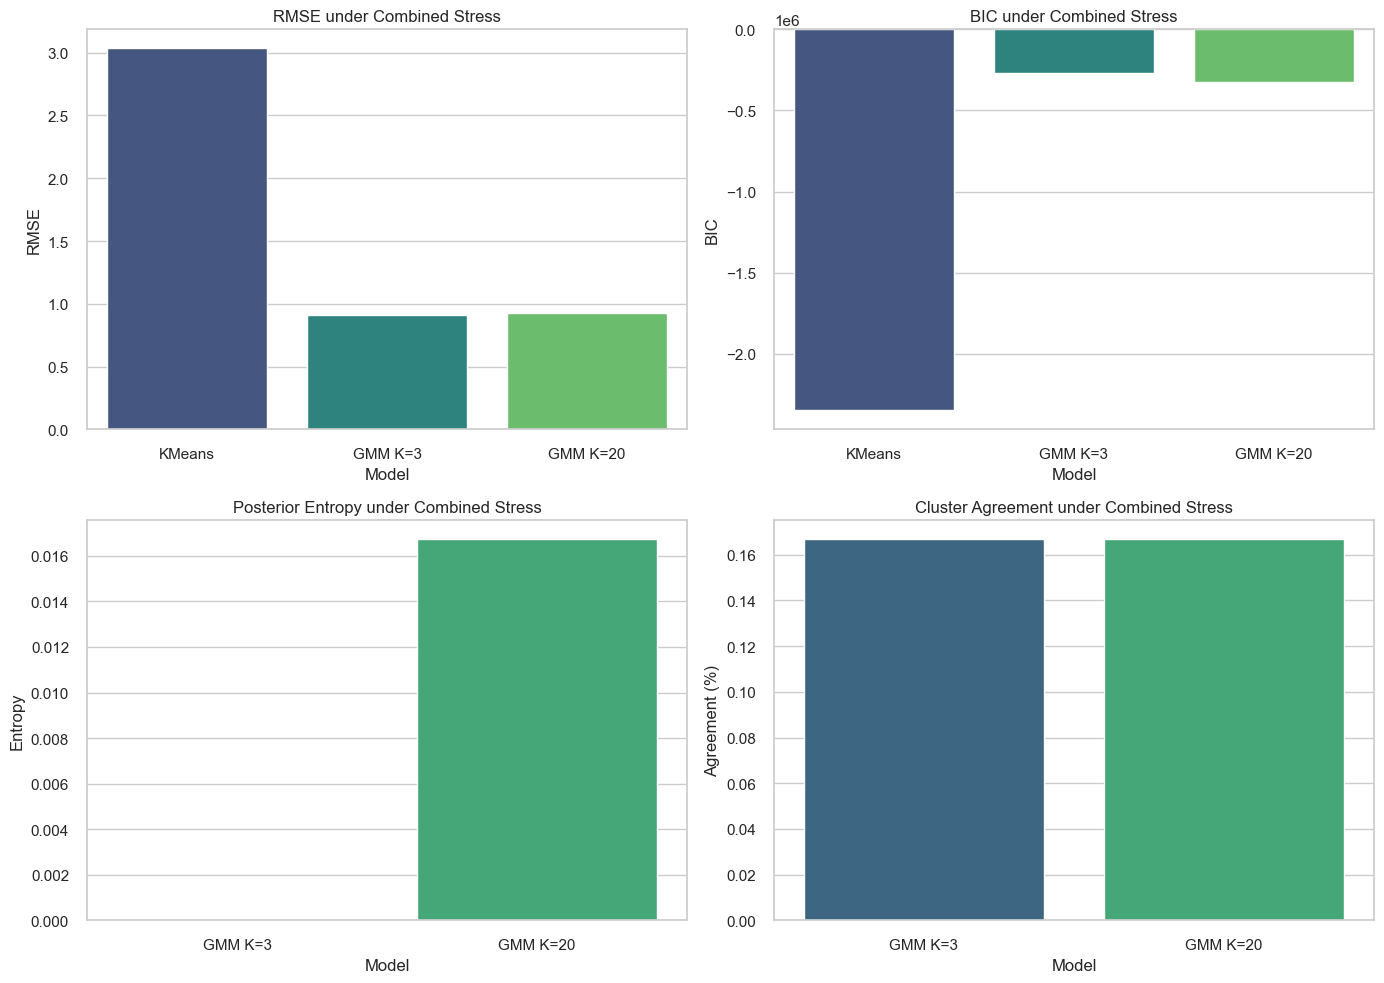
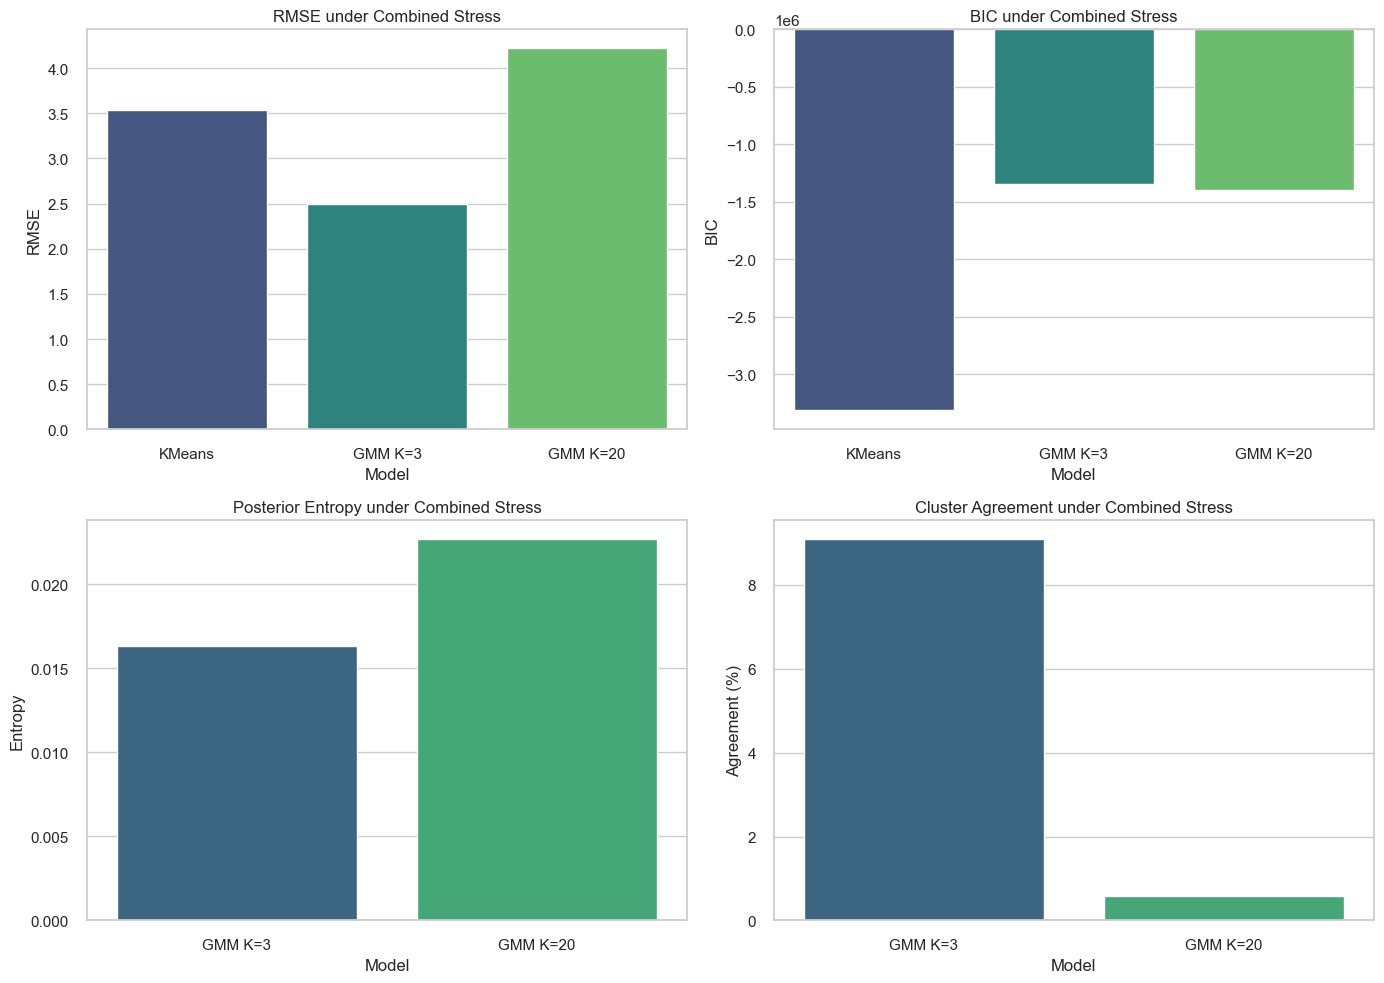
Updated results

diff --git a/stress_tests.py b/stress_tests.py
@@ -236,21 +236,21 @@ def add_adversarial_flips(X, flip_fraction=0.1, rng=None):
 
 #     return X_mnar
 
-# # Severe noise (heavy-tailed)
-# def add_heavy_tailed_noise(X, df=3, scale=3.0, rng=None):
-#     if rng is None:
-#         rng = np.random.default_rng()
+# Severe noise (heavy-tailed)
+def add_heavy_tailed_noise(X, df=3, scale=3.0, rng=None):
+    if rng is None:
+        rng = np.random.default_rng()
 
-#     X_noisy = X.copy()
-#     observed = X != 0
+    X_noisy = X.copy()
+    observed = X != 0
 
-#     if observed.sum() == 0:
-#         return X_noisy
+    if observed.sum() == 0:
+        return X_noisy
 
-#     noise = student_t.rvs(df, size=observed.sum(), random_state=rng) * scale
-#     X_noisy[observed] += noise
+    noise = student_t.rvs(df, size=observed.sum(), random_state=rng) * scale
+    X_noisy[observed] += noise
 
-#     return X_noisy
+    return X_noisy
 
 # # Extreme adversarial noise - MORE AGGRESSIVE
 # def add_adversarial_flips(X, flip_fraction=0.2, rng=None):

diff --git a/README.md b/README.md
@@ -6,14 +6,10 @@ Full results and analysis can be found here: [Netflix Analysis](https://github.c
 
 ## Table of Contents
 - [Project Overview](#project-overview)
-- [Dataset](#dataset)
+- [Dataset and Methodology](#dataset-and-methodology)
 - [Approach](#approach)
-  - [Collaborative Filtering with Gaussian Mixture Model (GMM)](#collaborative-filtering-with-gaussian-mixture-model-gmm)
-  - [Prediction with Expectation-Maximization (EM) Algorithm](#prediction-with-expectation-maximization-em-algorithm)
-  - [K-Means Clustering](#k-means-clustering)
 - [Evaluation](#evaluation)
 - [Results](#results)
-- [Usage](#usage)
 - [Future Improvements](#future-improvements)
 
 ## Project Overview
@@ -24,59 +20,16 @@ This Netflix recommendation system uses collaborative filtering to generate tail
   - To create a production ready recommendation system, it is imperative to first understand the underlying distribution of user preferences. By modeling user behavior, we can then assign probabilities to contents to determine whether a user may enjoy a content or not.
   - We aim to create the best model for such recommendations by first determining the structure of user data given our dataset. Afterwards, we will define and test algorithms for predicting user ratings for recommendations.
 
-## Dataset
+## Dataset and Methodology
+
 The dataset contains information about user ratings. It is a matrix of 1200 * 1200 user rating data and missing data is represented as 0.
 To assign ratings for the missing data, we implemented the K-means and Gaussian Mixture Models (GMM) for clustering, and the Expectation-Maximization (EM) algorithm for modeling and rating predictions.
 
-### Model Selection
 K-means was selected as an initial baseline due to its computational efficiency, simplicity, and interpretability. It performs well on large datasets and provides clear, hard cluster assignments, making it suitable for quickly identifying dominant user segments based on rating behavior. This allowed us to establish a strong baseline for user segmentation and evaluate cluster structure using metrics such as RMSE and silhouette behavior.
 
 However, user preferences in a real-world streaming platform like Netflix are rarely exclusive. Users often belong to multiple preference groups, which hard clustering cannot fully capture. To address this limitation, Gaussian Mixture Models were introduced. GMMs model each cluster as a probability distribution and assign users soft membership probabilities, allowing the recommendation system to reflect uncertainty and overlapping interests. This probabilistic formulation better aligns with real viewing behavior and enables more nuanced recommendations.
 
-- Performance Comparison: K-Means vs GMM
-
-| K | K-Means RMSE | K-Means BIC | K-Means LL | GMM RMSE | GMM BIC | GMM LL |
-|---|---|---|---|---|---|---|
-| 1 | 0.5667 | -2,821,274 | -2,817,016 | 0.4802 | -1,544,758 | -1,540,500 |
-| 2 | 0.4805 | -2,707,332 | -2,698,814 | 0.4559 | -1,464,771 | -1,456,252 |
-| 3 | 0.4846 | -2,676,802 | -2,664,022 | 0.4566 | -1,468,236 | -1,455,457 |
-| 4 | 0.4746 | -2,653,928 | -2,636,887 | 0.4756 | -1,447,234 | -1,430,193 |
-| 5 | 0.4873 | -2,642,527 | -2,621,225 | 0.4738 | -1,450,889 | -1,429,587 |
-| 6 | 0.4961 | -2,636,149 | -2,610,585 | 0.4725 | -1,453,663 | -1,428,099 |
-| 7 | 0.4940 | -2,631,491 | -2,601,667 | 0.4759 | -1,453,335 | -1,423,511 |
-| 8 | 0.5025 | -2,626,356 | -2,592,271 | 0.4920 | -1,445,582 | -1,411,497 |
-| 9 | 0.4959 | -2,622,983 | -2,584,636 | 0.4967 | -1,449,051 | -1,410,704 |
-| 10 | 0.4800 | -2,619,471 | -2,576,864 | 0.4974 | -1,452,497 | -1,409,889 |
-| 11 | 0.4873 | -2,618,841 | -2,571,972 | 0.4998 | -1,450,890 | -1,404,022 |
-| 12 | 0.4797 | -2,618,970 | -2,567,840 | 0.5020 | -1,454,027 | -1,402,897 |
-
-- Based on user ratings, GMM performs slightly better than K-means, indicating similar performance given the current dataset. However, the gains from GMM are minor and given the current results, both models are suitable for selection. The results hint that GMM generalizes user data better and may perform better in complex data settings; however, these claims need to be substantiated through evidence.
-
-### Hypothesis
-- We expect K-means and GMM to perform similarly given the current dataset, but as underlying distribution becomes more complex and as complications are introduced, GMM will generalize better than K-means and will be reflected via test results.
-- To test our hypothesis, after EDA is performed and parameters are optimized, we will put our GMM and K-means model through 3 stress tests:
-  - Stress Test 1: Missing data at varying rates [0.1, 0.3, 0.5, 0.7]
-  - Stress Test 2: Noise introduction [baseline, moderate, strong, adversarial]
-  - Stress Test 3: Missing data at 80% and strong noise introduction
-- The results of Stress Test 3 will be used to compute percentage improvement of the optimal GMM. 
-
-
-## Approach
-
-### EDA via t-SNE -> 
-To understand the underlying data, we will apply t-SNE plots to both K-means and GMM.
-
-### Collaborative Filtering with Gaussian Mixture Model (GMM)
-To capture patterns in user behavior and generate personalized recommendations, the project compares K-means and GMM algorithms. GMM’s probabilistic approach enables the system to model complex distributions of user ratings, which will improve the accuracy of predicted ratings.
-
-### Prediction with Expectation-Maximization (EM) Algorithm
-The Expectation-Maximization (EM) algorithm is used alongside GMM and K-means for optimizing predictions. EM iteratively refines cluster parameters to maximize the likelihood of the observed data, allowing the model to more precisely assign user preferences and enhance recommendation accuracy.
-
-### Expectation-Maximization (EM) Algorithm
-
-The Expectation-Maximization (EM) algorithm is an iterative method used to estimate parameters in models with latent variables, such as Gaussian Mixture Models (GMMs). In this recommendation system, the EM algorithm helps assign users to probabilistic clusters, capturing similarities in their preferences and improving rating predictions.
-
-The EM algorithm alternates between two main steps until convergence:
+After data points are assigned cluster probabilities via GMM, ratings will be predicted via the Expectation-Maximization (EM) algorithm. In this recommendation system, the EM algorithm helps assign users to probabilistic clusters, capturing similarities in their preferences and improving rating predictions.
 
 1. **E-Step (Expectation Step)**: Calculate the expected value of the latent variables based on the observed data and the current parameter estimates.
 
@@ -108,11 +61,143 @@ The EM algorithm alternates between two main steps until convergence:
 
 These E and M steps repeat until convergence, yielding optimized parameters $\theta$ that enhance the model’s accuracy in predicting user ratings.
 
-### K-Means Clustering
-K-Means clustering was implemented to segment users into distinct groups based on their viewing preferences. Through experimentation, 3 was identified as the optimal number of clusters, with each cluster representing a unique subset of user tastes. This grouping helps further tailor recommendations by aligning users with others in the same cluster.
+- Performance Comparison: K-Means vs GMM
+
+| K | K-Means RMSE | K-Means BIC | K-Means LL | GMM RMSE | GMM BIC | GMM LL |
+|---|---|---|---|---|---|---|
+| 1 | 0.5667 | -2,821,274 | -2,817,016 | 0.4802 | -1,544,758 | -1,540,500 |
+| 2 | 0.4805 | -2,707,332 | -2,698,814 | 0.4559 | -1,464,771 | -1,456,252 |
+| 3 | 0.4846 | -2,676,802 | -2,664,022 | 0.4566 | -1,468,236 | -1,455,457 |
+| 4 | 0.4746 | -2,653,928 | -2,636,887 | 0.4756 | -1,447,234 | -1,430,193 |
+| 5 | 0.4873 | -2,642,527 | -2,621,225 | 0.4738 | -1,450,889 | -1,429,587 |
+| 6 | 0.4961 | -2,636,149 | -2,610,585 | 0.4725 | -1,453,663 | -1,428,099 |
+| 7 | 0.4940 | -2,631,491 | -2,601,667 | 0.4759 | -1,453,335 | -1,423,511 |
+| 8 | 0.5025 | -2,626,356 | -2,592,271 | 0.4920 | -1,445,582 | -1,411,497 |
+| 9 | 0.4959 | -2,622,983 | -2,584,636 | 0.4967 | -1,449,051 | -1,410,704 |
+| 10 | 0.4800 | -2,619,471 | -2,576,864 | 0.4974 | -1,452,497 | -1,409,889 |
+| 11 | 0.4873 | -2,618,841 | -2,571,972 | 0.4998 | -1,450,890 | -1,404,022 |
+| 12 | 0.4797 | -2,618,970 | -2,567,840 | 0.5020 | -1,454,027 | -1,402,897 |
+
+- Based on user ratings, GMM performs slightly better than K-means, indicating similar performance given the current dataset. However, the gains from GMM are minor and given the current results, both models are suitable for selection. The results hint that GMM generalizes user data better and may perform better in complex data settings; however, these claims need to be substantiated through evidence.
+
+### Hypothesis
+- We expect K-means and GMM to perform similarly given the current dataset, but as underlying distribution becomes more complex and as complications are introduced, GMM will generalize better than K-means and will be reflected via test results.
+- To test our hypothesis, after EDA is performed and parameters are optimized, we will put our GMM and K-means model through 3 stress tests:
+  - Stress Test 1: Missing data at varying rates [0.1, 0.3, 0.5, 0.7]
+  - Stress Test 2: Noise introduction [baseline, moderate, strong, adversarial]
+  - Stress Test 3: Missing data at 80% and strong noise introduction
+- The results of Stress Test 3 will be used to compute percentage improvement of the optimal GMM. 
+
+## Approach
+
+### EDA
+
+To understand the underlying data, we will apply t-SNE plots to both K-means and GMM. To do so, we first need to determine hyperparameter settings for t-SNE plots, namely the perplexity hyperparameter.
+We will determine these settings via KL-Divergence computations. For K-means, we also compute distortion and silhouette scores.
+
+| K-means Distortion | K-means Silhouette |
+| -- | -- |
+| ![](https://github.com/sm9801/Netflix_Recommendation_Engine/blob/master/Visualizations/Kmeans%20Distortion.png) | ![](https://github.com/sm9801/Netflix_Recommendation_Engine/blob/master/Visualizations/Kmeans%20Silhouette.png) |
+
+| K-means | GMM |
+|--|--|
+| ![](https://github.com/sm9801/Netflix_Recommendation_Engine/blob/master/Visualizations/Kmeans%20Perplexity.png) | ![](https://github.com/sm9801/Netflix_Recommendation_Engine/blob/master/Visualizations/GMM%20Perplexity.png) |
+| ![](https://github.com/sm9801/Netflix_Recommendation_Engine/blob/master/Visualizations/Kmeans%20KL.png) | ![](https://github.com/sm9801/Netflix_Recommendation_Engine/blob/master/Visualizations/GMM%20KL.png) |
+
+- Distortion and silhouette scores indicate that K-means performs best at lower K values, despite various user rating distributions present in the data.
+- Based on KL-Divergence scores and visualizations of perplexity plots, we choose perplexity = 50 for our t-SNE settings. We now visualize our t-SNE plots for K-means and GMM:
+
+<table>
+  <tr>
+    <td><strong>K-means</strong></td>
+    <td><img src="https://github.com/sm9801/Netflix_Recommendation_Engine/blob/master/Visualizations/Kmeans%20tSNE.png" /></td>
+  </tr>
+  <tr>
+    <td><strong>GMM</strong></td>
+    <td><img src="https://github.com/sm9801/Netflix_Recommendation_Engine/blob/master/Visualizations/GMM%20tSNE.png" /></td>
+  </tr>
+</table>
+
+As we hypothesized, K-means clusters have significant overlap across all K values, where clusters generally clump into a singular blob. This is indicative of K-means inability to generalize underlying data within Netflix user ratings.
+On the other hand, GMM clusters have clear and clean separations between each groups. These visualizations indicate that GMM generalizes high dimensional data effectively, as we expected. However, to solidify our findings, we must put both models under our stress tests.
+
+First, we visualize our results for comparison:
+
+| RMSE | GMM BIC | K-means BIC |
+| -- | -- | -- |
+| ![](https://github.com/sm9801/Netflix_Recommendation_Engine/blob/master/Visualizations/RMSE%20plots.png) | ![](https://github.com/sm9801/Netflix_Recommendation_Engine/blob/master/Visualizations/GMM%20BIC.png) | ![](https://github.com/sm9801/Netflix_Recommendation_Engine/blob/master/Visualizations/Kmeans%20BIC.png) |
+
+### Model Selection
+
+Based on these results, the RMSE values for K-means and GMM are both stable and comparable. Performance alternates across different numbers of clusters, with K-means outperforming GMM in certain ranges and GMM performing better in others.
+
+Whereas both models perform well on this dataset, our manifold analysis suggests that K-means does not generalize effectively to the underlying data distribution. In particular, we observe that K-means BIC values increase monotonically as K increases, indicating deteriorating model quality with additional clusters.
+This behavior is notable because it implies that K-means achieves optimal performance at K = 3, consistent with the minimum distortion scores observed earlier. Beyond this point, increasing the number of clusters fails to capture additional meaningful structure and instead degrades model performance.
+
+These findings suggest that the K-means model is limited in its ability to represent nuanced patterns in Netflix user rating distributions. As the number of clusters is forced upward, K-means increasingly overfits local structures while failing to generalize the global manifold, resulting in underperformance.
+BIC scores for GMM are worse than K-means across all K values by a large margin. However, at K = 3 and above, GMM shows near monotonic decrease in BIC, where the global minimum appears at K = 20, indicating model improvement and likelihood gains despite BIC penalty. 
+
+However, under current conditions, both K-means and GMM perform well in terms of RMSE. In order to test and compare these models, we will now evaluate them through stress tests.
+Based on the above results, we make the following model selection for stress test evaluations:
+
+- **K-means K = 3 (seed = 0):** Best performing K-means settings based on RMSE and BIC, as well as distortion scores
+- **GMM K = 3 (seed = 1):** 2nd lowest minimum of BIC. Global minimum for RMSE was achieved by K = 4, but BIC levels also reached the second highest at this point.
+Therefore, we test with K = 3 instead of 4.
+- **GMM K = 20 (seed = 1):** Global minimum of BIC with large likelihood gains despite BIC penalty of model complexity
 
 ## Evaluation
-The model’s performance was evaluated using the Root Mean Square Error (RMSE) metric, which compares the predicted ratings with actual user ratings. An RMSE score of 0.48 demonstrates the model’s ability to closely approximate true user preferences.
+### Stress Test 1 (Missing Data)
+
+For this stress test, we force missing data at varying rates. Namely, we test the models in the following severity:
+- [0.1, 0.3, 0.5, 0.7]
+- The above missing data rates account for a percentage of observed data, not the entire matrix
+- Therefore, total percentage of missing data may be higher than their respective rates after forcing missing data
+
+With the defined model parameters, we have the following results:
+| Stress Test 1 Results | Stress Test 1 t-SNE |
+| -- | -- |
+| ![](https://github.com/sm9801/Netflix_Recommendation_Engine/blob/master/Visualizations/Stress%20Test%201.png) | ![](https://github.com/sm9801/Netflix_Recommendation_Engine/blob/master/Visualizations/Stress%20Test%201%20tSNE.png) |
+
+**Summary**
+- In terms of RMSE, both GMM models are considerably more robust to missing data compared to K-means. K-means RMSE increase almost exponentially as missing rate increases, while GMM RMSE values increase very slightly.
+- BIC values remain ideal for K-means across all missing data rates. However, this is from underfitting due to less data. RMSE performance for K-means is significantly worsened, and as K increases, underfitting increases, resulting in performance decrease. Without enough data, K-means cannot overcome underfitting despite a better BIC score.
+- GMM Entropy, although monotonically increasing, remains near zero, indicating confident cluster assignments even with substantial missing data
+- Cluster agreement between K-means and GMM at K = 20 is effectively nonexistent, reflecting growing divergence in clustering solutions under challenging conditions, where K-means cannot identify meaningful clusters.
+
+**t-SNE Analysis**
+- K-means:
+  - Clusters become increasingly diffused and overlapping as the missing rate increases. Eventually, clusters clump into a singular blob.
+  - Struggles to maintain distinct cluster boundaries in the presence of substantial missing data
+- GMM:
+  - Clusters remain well-defined and separated even at high missing rates. Distances between clusters increase as missing rate increases, indicating growing uncertainty between clusters. This is expected, as missing data increases, GMM assigns lower probabilities to each data point for cluster assignment.
+  - GMM at K = 20 shows more nuanced cluster structure compared to K = 3, capturing finer distinctions among users.
+
+This stress test validates our earlier findings that GMM is more robust and better suited for capturing the underlying data distribution, especially in the presence of missing data.
+We now begin Stress Test 2.
+
+### Stress Test 2 (Noise Levels)
+
+For this stress test, we introduce varying levels of noise and corruption across our data. We test the models in the following severity:
+- Baseline (heteroskedastic Gaussian), Moderate (item-correlated noise), Strong (missing not at random), Adversarial (adversarial flips)
+
+With the defined model parameters, we have the following results:
+| Stress Test 2 Results | Stress Test 2 t-SNE |
+| -- | -- |
+| ![](https://github.com/sm9801/Netflix_Recommendation_Engine/blob/master/Visualizations/Stress%20Test%202.png) | ![](https://github.com/sm9801/Netflix_Recommendation_Engine/blob/master/Visualizations/Stress%20Test%202%20tSNE.png) |
+
+**Summary**
+- GMM at K = 3 maintains lowest RMSE values, while K-means performs slightly better than GMM at K = 20 for initial noise severities
+- GMM performs especially better at Strong Noise level in terms of RMSE
+- Cluster agreements between GMM at K = 3 and K-means remains between 30 ~ 50% across noise types while for GMM at K = 20 and K-means, cluster agreements range from 0 ~ 10%
+- Entropy levels remain lowest for GMM at K = 3, though as noise levels increase, entropy increases as well
+
+**t-SNE Analysis**
+- The above visualizations indicate the impact of different noise types on clustering structure. These tests are quite extreme, and both GMM and K-means eventually break down under severe noise conditions. However, K-means break down from the baseline noise levels and worsens as noise severity increases, as indicated by poor cluster separation in t-SNE plots. GMM appears to be more robust in maintaining some clustering structure compared to K-means, especially under adversarial noise conditions, where BIC is the minimum before model failure.
+- These results prove the robustness of GMM clustering over K-means given the data structure of Netflix data. However, as observed, GMM is not immune to missing data, and especially not to noise or data corruption. Current GMM model struggles significantly at noise stress tests and further improvement is required to overcome these challenges.
+
+We now perform Stress Test 3.
+
+### Stress Test 3 (Missing data + Sparse Outliers)
 
 ## Results
 - **Optimal GMM Clusters**: 3